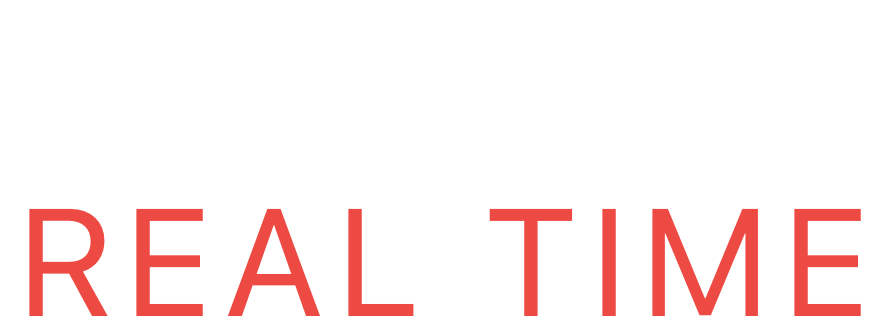
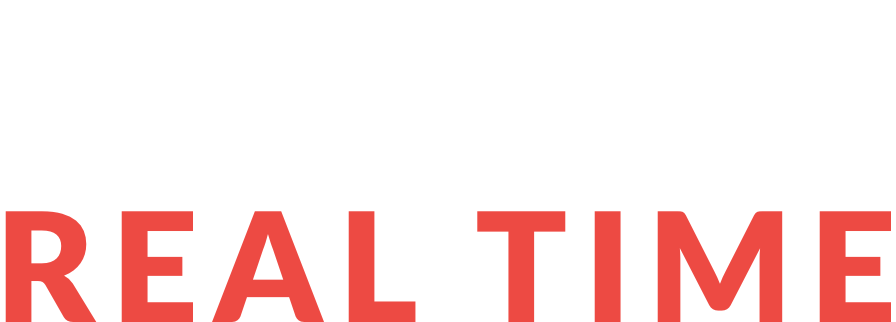
assets made responsive

Changed region(s): [[0.0, 0.6551, 0.4854, 1.0], [0.7281, 0.6551, 1.0, 1.0], [0.5157, 0.6551, 0.6978, 1.0]]

diff --git a/templates/venues.html b/templates/venues.html
@@ -1,6 +1,6 @@
 <div ng-include="'templates/home.html'" class="splash-screen" ng-class="{'roll-up-splash-screen':rollUpSplashScreen}" ng-hide="switchToVenuesPage"></div>
 
-<div class="venue-container" ng-controller="nolWebController" ng-init="variableInitializerOnPageLoad()">
+<div class="venue-container"   ng-controller="nolWebController" ng-init="variableInitializerOnPageLoad()">
 
     <div class="popup-background" ng-include="'templates/partials/popup.html'" ng-show="popupBtnClicked" ng-click="closePopUp()"></div>
 
@@ -17,11 +17,11 @@
 
                   <div class="menu-tab-list-hidden" ng-class="{'menu-tab-list':showMenuTabList}">
                     <ul style="color:white">
-                        <li> <a ng-href="#/venues">      Live Data   </a></li>
-                        <li><a ng-href="#/app">         App         </a></li>
-                        <li><a ng-href="#/about-us">    About Us    </a></li>
-                        <li><a ng-href="#/ambassador">  Ambassador  </a></li>
-                        <li><a ng-href="#/contact-us">  Contact     </a> </li>
+                        <li ng-class="{'li-active':li-selected == 'live-data'}"><a ng-href="#/venues" ng-click="li-selected = 'live-data'">      Live Data   </a></li>
+                        <li ng-class="{'li-active':li-selected == 'app'}"><a ng-href="#/app" ng-click="li-selected = 'app'">         App         </a></ling-class>
+                        <li ng-class="{'li-active':li-selected == 'about-us'}"><a ng-href="#/about-us" ng-click="li-selected = 'about-us'">    About Us    </a></li>
+                        <li ng-class="{'li-active':li-selected == 'ambassador'}"><a ng-href="#/ambassador" ng-click="li-selected = 'ambassador'">  Ambassador  </a></li>
+                        <li ng-class="{'li-active':li-selected == 'contact'}"><a ng-href="#/contact-us" ng-click="li-selected = 'contact'">  Contact     </a> </li>
                     </ul>
                   </div>
 

diff --git a/templates/home.html b/templates/home.html
@@ -70,6 +70,7 @@ background-color: rgba(0,0,0,.91);
   margin-left:calc(50vw - 21.5vh);
   /*background:white;*/
     /*border:solid white 1px;*/
+    opacity:1;
     z-index: 1000000000;
 }
 .title-banner{
@@ -89,7 +90,7 @@ background-color: rgba(0,0,0,.91);
   height:3.77vh;
   margin-left:calc(50vw - 27.11vh);
   top:90vh;
-z-index: 1000000000;
+  z-index: 1000000000;
 }
 .title-banner img {
   width:42.21vh;
@@ -100,19 +101,54 @@ z-index: 1000000000;
 
 .bar-upper img {
   margin-bottom:4.7vh;
+  z-index:100000000000000000;
 }
 
 .night img{
   margin-bottom: 4.7vh;
+  z-index:100000000000000000;
 }
 .out img {
   margin-bottom: 4.7vh;
+  z-index:100000000000000000;
 }
 .loud img{
   margin-bottom: 4.7vh;
+  z-index:100000000000000000;
 }
 .bottom-banner img{
   width:54.22vh;
+  z-index:100000000000000000;
+}
+
+@media only screen and (max-width:544px) {
+  .title-banner{
+    position:absolute;
+    top:calc(35vh + 19.5vh + 10vh);
+    /*margin-top:8.76vw;*/
+    margin-left:20vw;
+    width:60vw;
+    height:19.06vh;
+    /*background:white;*/
+    z-index: 1000000000;
+  }
+
+  .bottom-banner {
+    position:absolute;
+    width:60vw;
+    height:3.77vh;
+    margin-left:20vw;
+    top:90vh;
+    z-index: 1000000000;
+  }
+  .title-banner img {
+    width:60vw;
+  }
+  .bottom-banner img{
+    width:60vw;
+    z-index:100000000000000000;
+  }
+
 }
 </style>
 <div class="gradient">

diff --git a/stylesheet.css b/stylesheet.css
@@ -19,18 +19,18 @@ src: local('Avenir Next LT Pro Condensed'), url('AvenirNextLTPro-Cn.woff') forma
   display:none;
 }
 
-.body {
+body {
     background:black !important;
     width:100vw;
     height:100vh;
-    overflow:hidden;
-
 }
+
+
 
 .venue-container{
   width:100vw;
   height:100vh;
-  overflow-y:scroll;
+  overflow-y:hidden;
 }
 
 .header {
@@ -115,11 +115,17 @@ li {
     display:inline-block;
     text-decoration:none;
     margin-left:30px;
-    height:24px !important;
+    height:40px !important;
     padding-top:0px !important;
     padding-bottom:0px !important;
     text-decoration:none;
+    transition:border-bottom 500ms ease-in;
+    border-bottom:none;
 
+}
+
+.li-active {
+    border-bottom:solid 4px rgba(255,255,255,1);
 }
 
 #loader-container {
@@ -368,10 +374,11 @@ li {
   padding:0px auto;
   position:relative;
   /*border:1px solid white;*/
-  transition: margin-top 2s ease;
+  transition: margin-top 2s ease-in;
 }
 .roll-up-splash-screen {
-  margin-top:-100vh !important;
+  margin-top:-100vh;
+
 }
 
 
@@ -708,7 +715,7 @@ li {
       width:100%;
       height:90px;
       margin-top:20px;
-      padding-left:0px;
+      padding-left: 0px !important;
       font-size:64px;
       padding-right:0px !important;
       margin-left:auto;

diff --git a/js/app.js b/js/app.js
@@ -6,7 +6,7 @@ app.config(['$locationProvider','$routeProvider',function config($locationProvid
                 $routeProvider.
                     when('/',{
                     templateUrl:'templates/venues.html',
-                    controller:'nolWebController'
+                    controller:'nolHomeController'
                     }).when('/venues',{
                     templateUrl: 'templates/venues.html',
                     controller:'nolWebController'
@@ -172,12 +172,17 @@ app.controller('nolHomeController',['$rootScope','$timeout','$interval','$locati
           // $timeout(scrollToVenues,3000);
 
           function splashScrollScreen (event){
+
+
             // window.scrollTo(0,0);
+            console.log(event);
             $rootScope.showLiveDataSection = true;
             $rootScope.showHistoricalDataSection= true;
             $rootScope.rollUpSplashScreen = true;
+
             $timeout(function(){
               window.scrollTo(0,0);
+              $('.venue-container').css('overflow-y','scroll');
               $rootScope.switchToVenuesPage = true;
             },2000);
             window.removeEventListener('scroll',splashScrollScreen);

diff --git a/index.html b/index.html
@@ -7,8 +7,8 @@
         <link href="stylesheet.css" rel="stylesheet">
         <link rel="stylesheet" href="bootstrap/css/bootstrap.min.css">
         <link rel="stylesheet" href="assets/fonts/avenir-next-lt-pro/style.css">
-        <link href="https:https://fonts.googleapis.com/css?family=Source+Sans+Pro:200" rel="stylesheet">
-        <link href="https:https://fonts.googleapis.com/css?family=Montserrat" rel="stylesheet">
+        <link href="https://fonts.googleapis.com/css?family=Source+Sans+Pro:200" rel="stylesheet">
+        <link href="https://fonts.googleapis.com/css?family=Montserrat" rel="stylesheet">
         <script src="js/jquery.min.js"></script>
         <script src="js/image-list.js"></script>
         <script src="js/list.js"></script>

diff --git a/templates/partials/popup.html b/templates/partials/popup.html
@@ -1,7 +1,8 @@
 <div class="popup-info" ng-show="popupBtnClicked">
     <div class="row">
       <div class="col-lg-12">
-        <img style="position:absolute;margin-left:-15px" src="assets/images/{{venueToDisplayOnPopup.imgUrl}}.jpg" height="320px"/>
+        <img style="position:absolute; background-size: cover;
+        object-fit: cover; width:100%"  src="assets/images/{{venueToDisplayOnPopup.imgUrl}}.jpg" height="320px"/>
       </div>
     </div>
     <div class="row">
